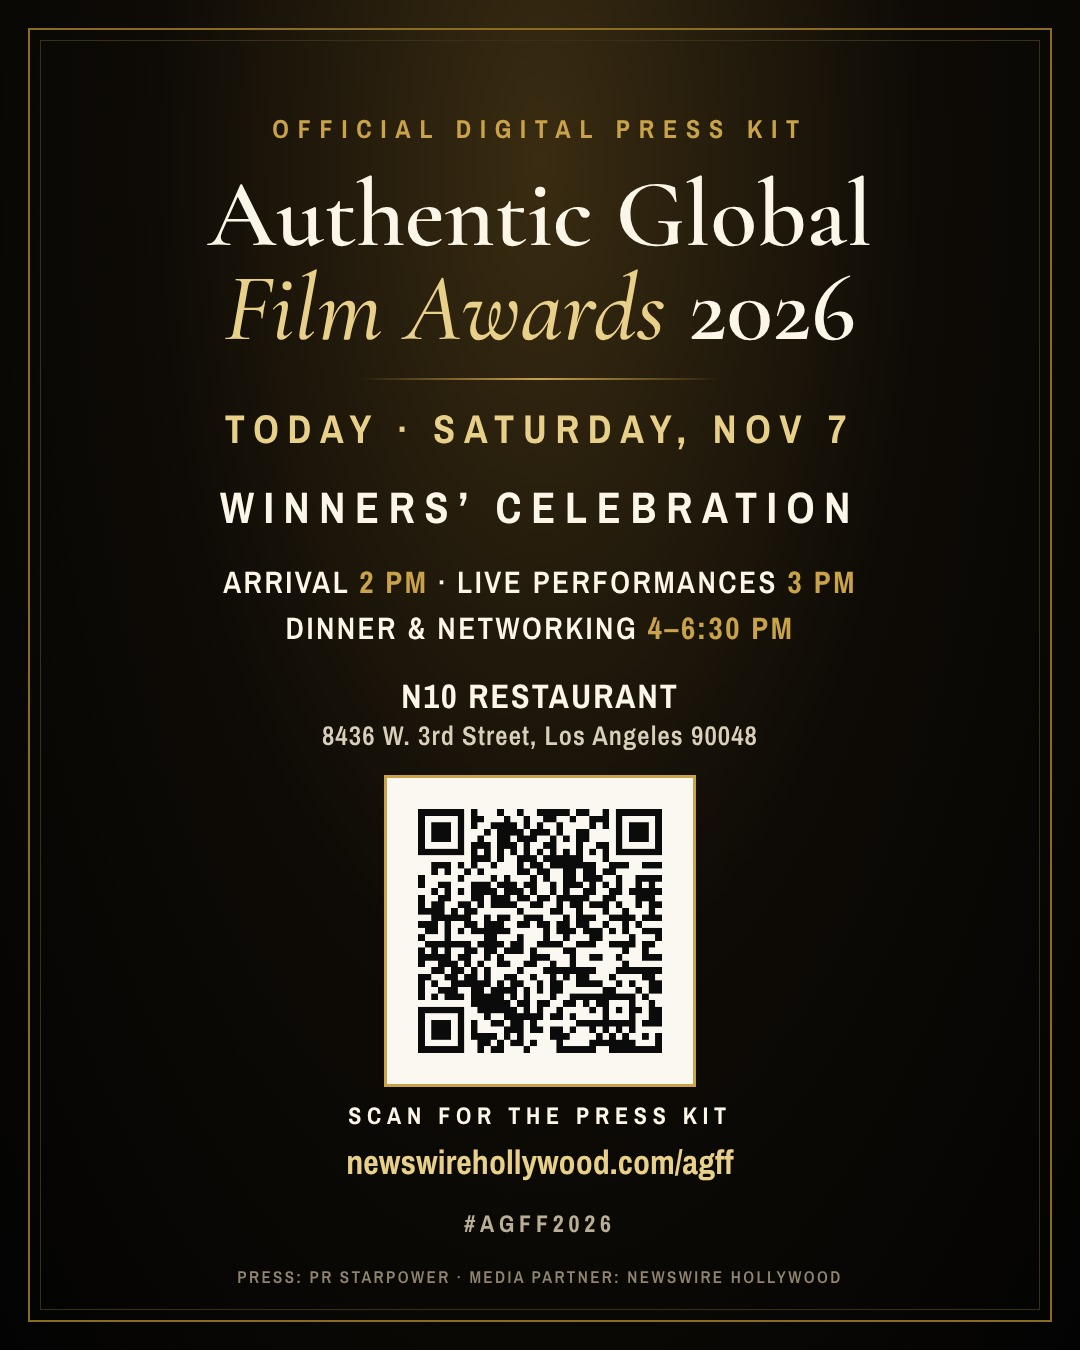
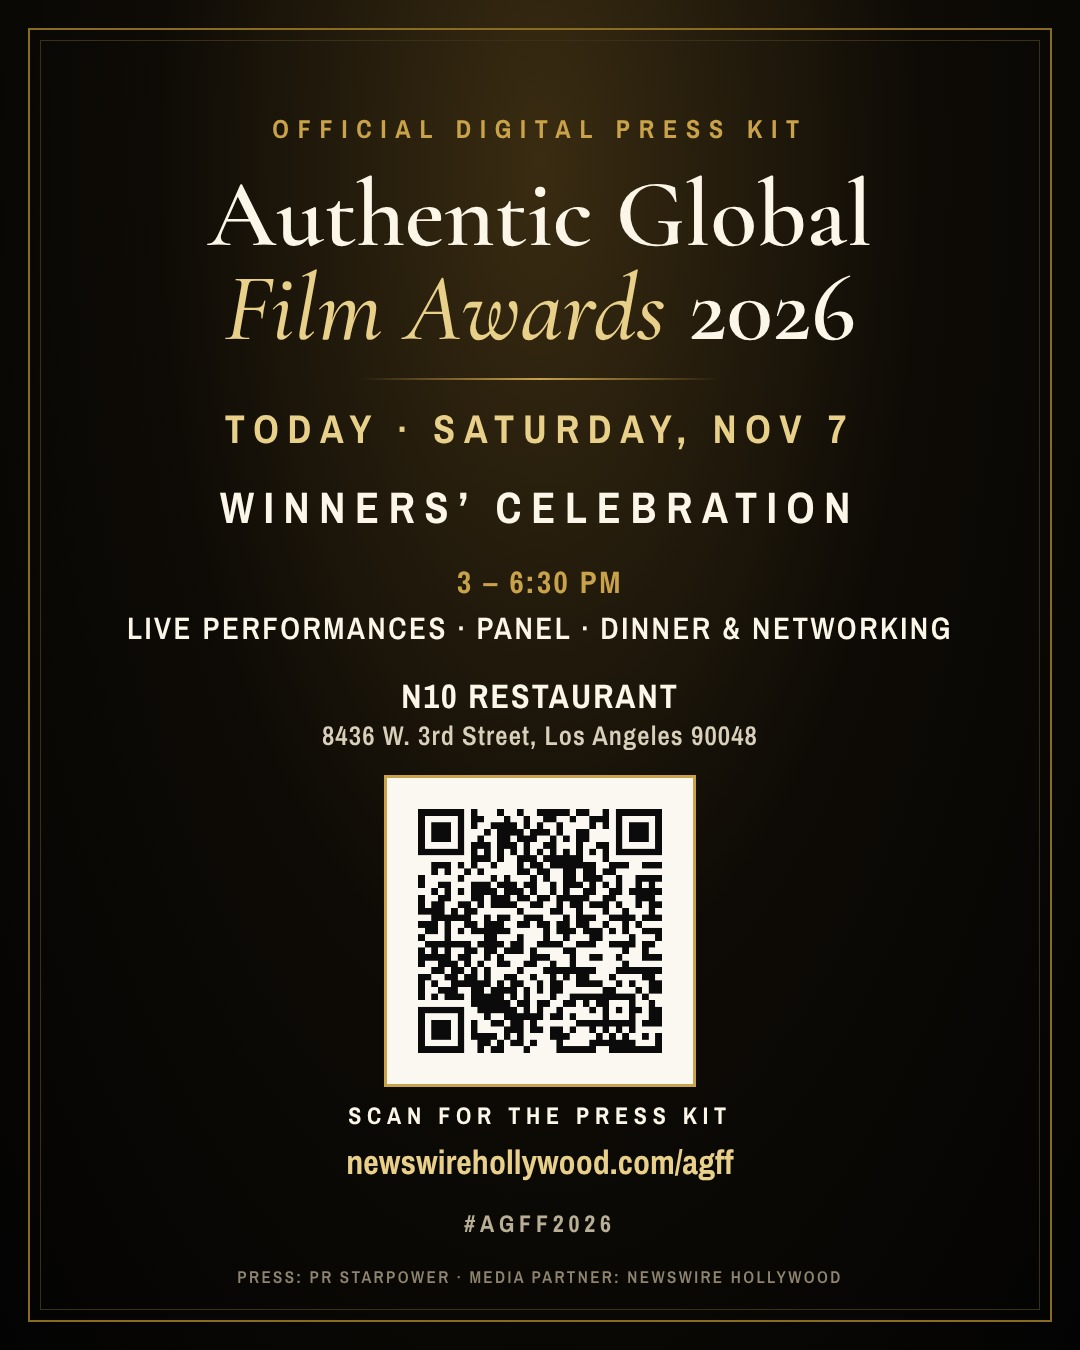
AGFF 2026 Saturday: public hours 3-6:30 PM, panel with filmmakers and producers, celebrity guests, two festival flyers; cards updated
Claude-Session: https://claude.ai/code/session_01VGmSAWtf3JSPEDyd3ovWKK

Changed region(s): [[0.1528, 0.4044, 0.8861, 0.4978]]

diff --git a/docs/agff-2026.html b/docs/agff-2026.html
@@ -7,7 +7,7 @@
 <title>Authentic Global Film Festival &amp; Awards 2026 — Official Digital Press Kit | Newswire Hollywood</title>
 <meta name="description" content="Official press room for the Authentic Global Film Festival and Global Film Awards 2026, November 5–7 at the Writers Guild Theater, Beverly Hills. Media alert, credentials, schedule and nominee toolkit.">
 <meta property="og:title" content="Authentic Global Film Festival &amp; Awards 2026 — Official Press Room">
-<meta property="og:description" content="Today: the Authentic Global Film Festival Winners&#x27; Celebration at N10, 8436 W. 3rd Street. Arrival 2 PM, live performances 3 PM, winning-film screenings, dinner and networking 4-6:30 PM. Official digital press kit.">
+<meta property="og:description" content="Today, 3-6:30 PM: the Authentic Global Film Festival Winners&#x27; Celebration at N10, 8436 W. 3rd Street. Live performances by London and TJ from Canada, a panel with filmmakers and producers, winning films, dinner and networking. Official digital press kit.">
 <meta property="og:type" content="website">
 <meta property="og:url" content="https://newswirehollywood.com/agff-2026.html">
 <meta property="og:image" content="https://newswirehollywood.com/img/agff-2026-card.jpg">
@@ -155,14 +155,14 @@ footer nav a{color:#E6DCC4;font-weight:600;letter-spacing:.06em;text-transform:u
 footer nav a:hover{color:var(--gold-hi)}
 </style>
 <!-- SOCIAL -->
-<meta property="og:description" content="Today: the Authentic Global Film Festival Winners' Celebration at N10, 8436 W. 3rd Street. Arrival 2 PM, live performances 3 PM, winning-film screenings, dinner and networking 4-6:30 PM. Official digital press kit.">
+<meta property="og:description" content="Today, 3-6:30 PM: the Authentic Global Film Festival Winners&#x27; Celebration at N10, 8436 W. 3rd Street. Live performances by London and TJ from Canada, a panel with filmmakers and producers, winning films, dinner and networking. Official digital press kit.">
 <meta property="og:url" content="https://newswirehollywood.com/agff-2026.html">
 <meta property="og:image" content="https://newswirehollywood.com/img/agff-2026-wide.jpg">
 <meta property="og:site_name" content="Newswire Hollywood">
 <meta property="article:published_time" content="2026-11-07">
 <meta name="twitter:card" content="summary_large_image">
 <meta name="twitter:title" content="Authentic Global Film Festival Winners' Celebration Today at N10: The Official Digital Press Kit">
-<meta name="twitter:description" content="Today: the Authentic Global Film Festival Winners' Celebration at N10, 8436 W. 3rd Street. Arrival 2 PM, live performances 3 PM, winning-film screenings, dinner and networking 4-6:30 PM. Official digital press kit.">
+<meta name="twitter:description" content="Today, 3-6:30 PM: the Authentic Global Film Festival Winners&#x27; Celebration at N10, 8436 W. 3rd Street. Live performances by London and TJ from Canada, a panel with filmmakers and producers, winning films, dinner and networking. Official digital press kit.">
 <meta name="twitter:image" content="https://newswirehollywood.com/img/agff-2026-wide.jpg">
 <!-- /SOCIAL -->
 </head>
@@ -192,7 +192,7 @@ footer nav a:hover{color:var(--gold-hi)}
   <div class="tagline">Where Hollywood meets the world.</div>
   <div class="facts">
     <span><b>Nov 5–7</b> 2026</span>
-    <span>Today: <b>N10</b>, 2 PM</span>
+    <span>Today: <b>N10</b>, 3–6:30 PM</span>
     <span><b>950+</b> films</span>
     <span><b>30</b> countries</span>
   </div>
@@ -214,17 +214,19 @@ footer nav a:hover{color:var(--gold-hi)}
 
 <section id="today">
   <span class="label">Today &middot; Saturday, November 7</span>
-  <h2>Winners&rsquo; Celebration at N10</h2>
+  <h2>Winners&rsquo; Celebration at N10 &middot; 3 – 6:30 PM</h2>
   <div class="rule"></div>
   <p style="margin-bottom:6px"><b>N10 Restaurant</b> &middot; 8436 W. 3rd Street, Los Angeles, CA 90048 &middot; <a href="https://www.google.com/maps/search/?api=1&query=N10+8436+W+3rd+St+Los+Angeles+CA+90048" style="border-bottom:1px solid var(--gold)">Map</a></p>
   <table class="sched">
-    <tr><td>2:00 PM</td><td><b>Arrival &amp; setup</b> &middot; filmmakers, performers and special guests arrive</td></tr>
-    <tr><td>3:00 PM</td><td><b>Live performances begin</b> &middot; featuring London and TJ from Canada</td></tr>
-    <tr><td>Following</td><td><b>Film screenings &amp; celebration</b> &middot; the festival&rsquo;s winning films and filmmakers</td></tr>
+    <tr><td>2:00 PM</td><td><b>Arrival &amp; setup</b> &middot; filmmakers, performers and special guests</td></tr>
+    <tr><td>3:00 PM</td><td><b>Celebration begins</b> &middot; live performances featuring London and TJ from Canada</td></tr>
+    <tr><td>Afternoon</td><td><b>Panel discussion</b> with filmmakers and producers &middot; winning-film screenings &middot; featured celebrity guests</td></tr>
     <tr><td>4 – 6:30 PM</td><td><b>Dinner &amp; networking</b> &middot; filmmakers, producers, business leaders, artists and special guests</td></tr>
   </table>
   <div class="note" style="background:#fff;border:1px solid var(--rule);border-left:4px solid var(--gold);padding:14px 16px;margin:14px 0;font-size:15.5px"><b style="font-family:var(--hed);letter-spacing:.06em">PLEASE NOTE</b> &middot; The full restaurant menu is available. Guests purchase their own meals and beverages.</div>
-  <div class="flyers"><figure><img src="img/agff-2026-winners-celebration.jpg" alt="Authentic Global Film Festival Winners' Celebration schedule, Saturday November 7, 2026, N10 Restaurant" loading="lazy" width="1024" height="1536"><figcaption><b>Winners&rsquo; Celebration schedule</b> &middot; Courtesy Authentic Global Film Festival.</figcaption></figure></div>
+  <div class="flyers"><figure><img src="img/agff-2026-winners-celebration.jpg" alt="Authentic Global Film Festival Winners' Celebration schedule, Saturday November 7, 2026, N10 Restaurant" loading="lazy" width="1024" height="1536"><figcaption><b>Winners&rsquo; Celebration schedule</b> &middot; Courtesy Authentic Global Film Festival.</figcaption></figure>
+    <figure><img src="img/agff-2026-congrats-winners.jpg" alt="Congratulations to all our winners, Saturday November 7, 3 to 6:30 PM, N10 Restaurant" loading="lazy" width="1122" height="1402"><figcaption><b>Congratulations to all our winners</b> &middot; Courtesy Authentic Global Film Festival.</figcaption></figure>
+    <figure><img src="img/agff-2026-festival-gathering.jpg" alt="Festival Gathering, Saturday November 7, 3 to 6:30 PM, N10 Restaurant" loading="lazy" width="1122" height="1402"><figcaption><b>Festival Gathering</b> &middot; artists, producers, directors, filmmakers and actors. Courtesy Authentic Global Film Festival.</figcaption></figure></div>
 </section>
 
 <section id="opening-night">
@@ -259,7 +261,7 @@ footer nav a:hover{color:var(--gold-hi)}
   <div class="days">
     <div class="day"><div class="d">Thursday &middot; Nov 5</div><div class="t">Red Carpet &amp; Global Film Awards Gala</div><p>Screenings from 10 AM &middot; Red carpet 5&ndash;7 PM &middot; Panel 6 PM &middot; Awards 7&ndash;9 PM &middot; After-party at N10, 10 PM.</p></div>
     <div class="day"><div class="d">Friday &middot; Nov 6</div><div class="t">Creators &amp; Industry</div><p>Showcases, panels, conversations and industry networking.</p></div>
-    <div class="day star"><div class="d" style="color:var(--gold)">Saturday &middot; Nov 7 &middot; Today</div><div class="t">Winners&rsquo; Celebration at N10</div><p>Arrival 2 PM &middot; Live performances 3 PM &middot; Winning-film screenings &middot; Dinner &amp; networking 4&ndash;6:30 PM.</p></div>
+    <div class="day star"><div class="d" style="color:var(--gold)">Saturday &middot; Nov 7 &middot; Today</div><div class="t">Winners&rsquo; Celebration at N10</div><p>3&ndash;6:30 PM &middot; Live performances &middot; Panel with filmmakers and producers &middot; Winning films &middot; Dinner &amp; networking.</p></div>
   </div>
 </section>
 
